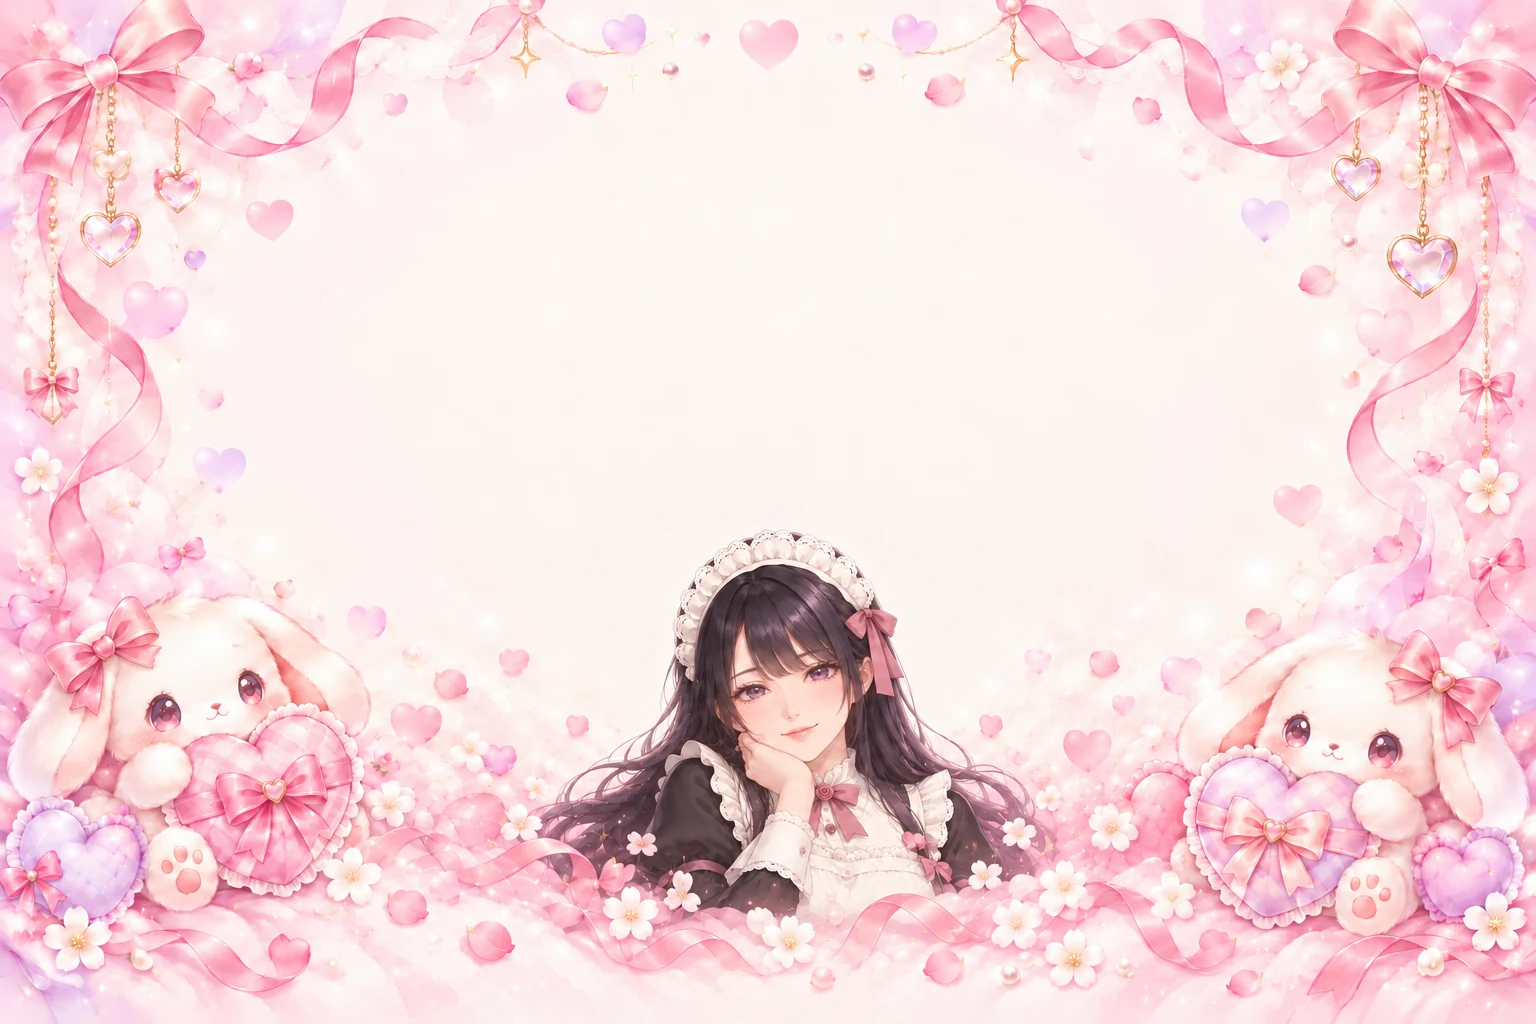
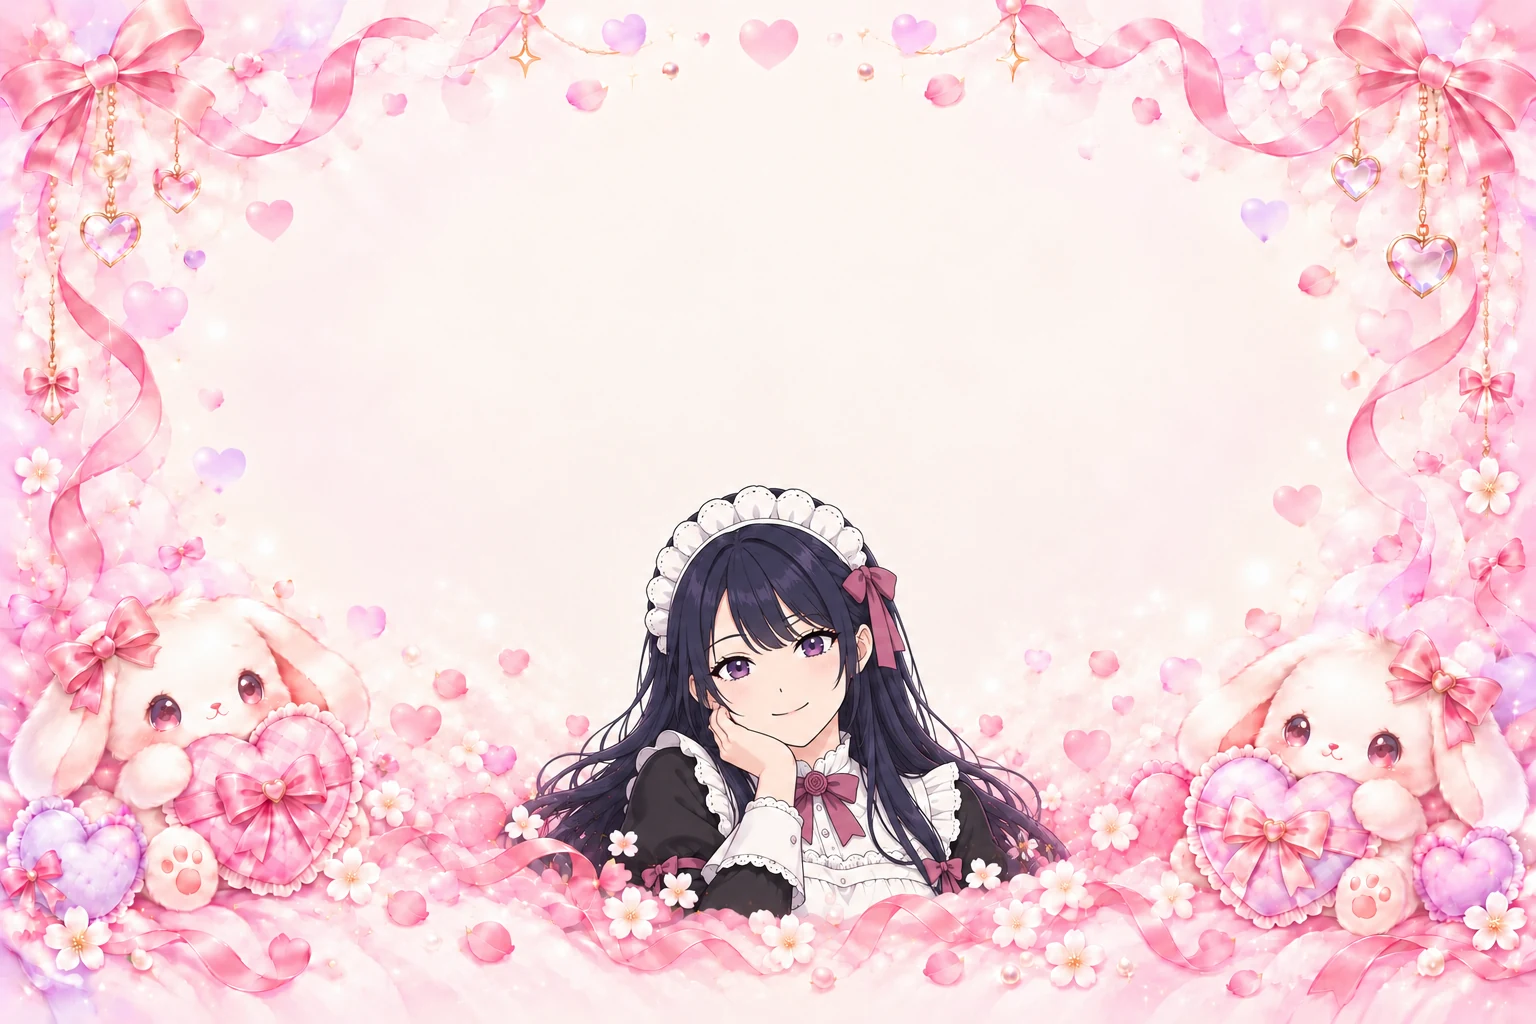
Refresh MOE anime maid artwork and heart motion
Update the background and five decorative portraits, keep text readable, and pause decorative motion when hidden or reduced.

diff --git a/src/app/moe.css b/src/app/moe.css
@@ -66,6 +66,10 @@ html[data-theme='moe'] {
     url('/themes/moe/background.webp') center / cover no-repeat,
     var(--bg0);
   background-attachment: fixed;
+  /* The 3:2 artwork has a small overscan margin. Percentages here use the fixed
+     background's positioning viewport, including mobile browser-chrome changes. */
+  background-size: auto, auto max(calc(100% + 60px), 66.667vw);
+  background-position: center, center calc(50% + 30px);
 }
 
 /* Two fixed, non-interactive planes sit behind the app. Empty generated content
@@ -81,12 +85,14 @@ html[data-theme='moe'] body::after {
   background-repeat: no-repeat;
 }
 html[data-theme='moe'] body::before {
+  --moe-drift-distance: -36px;
   background-image: var(--moe-heart), var(--moe-heart), var(--moe-heart), var(--moe-heart), var(--moe-heart), var(--moe-heart);
   background-size: 28px 26px, 19px 18px, 24px 22px, 18px 17px, 25px 23px, 20px 19px;
   background-position: 3% 12%, 97% 24%, 1% 47%, 99% 61%, 4% 84%, 96% 94%;
   animation: moe-heart-drift 9s ease-in-out infinite;
 }
 html[data-theme='moe'] body::after {
+  --moe-drift-distance: -30px;
   background-image: var(--moe-sparkle), var(--moe-heart), var(--moe-sparkle), var(--moe-sparkle), var(--moe-heart), var(--moe-sparkle);
   background-size: 15px 15px, 15px 14px, 18px 18px, 13px 13px, 17px 16px, 16px 16px;
   background-position: 95% 7%, 0% 31%, 98% 44%, 2% 69%, 100% 77%, 7% 96%;
@@ -233,6 +239,8 @@ html[data-theme='moe'] :is(.btn, .test-count__controls :where(button), .theme-op
 }
 html[data-theme='moe'] .btn:disabled::after { content: none; }
 html[data-theme='moe'] .page--test > .test-start-actions { background: transparent; }
+/* Empty-test labels keep an opaque reading surface over the illustrated face. */
+html[data-theme='moe'] .page--test > .test-start-actions button.btn:disabled { opacity: 1; }
 /* Portraits decorate only unopened editor slots; revealed indicators remain real tiles. */
 html[data-theme='moe'] .page--editor .wanpai > .is-back:nth-child(1) { --moe-maid-back: url('/themes/moe/maid-01-black-long.webp'); }
 html[data-theme='moe'] .page--editor .wanpai > .is-back:nth-child(2) { --moe-maid-back: url('/themes/moe/maid-02-chestnut-bob.webp'); }
@@ -286,7 +294,7 @@ html[data-theme='moe'] .page--records {
 
 @keyframes moe-heart-drift {
   0%, 100% { transform: translateY(0); }
-  50% { transform: translateY(-12px); }
+  50% { transform: translateY(var(--moe-drift-distance)); }
 }
 @keyframes moe-charm-sway {
   0%, 100% { transform: translateY(0) rotate(-7deg); }
@@ -308,4 +316,11 @@ html[data-theme='moe'] .page--records {
     animation: none !important;
     transition: none !important;
   }
+}
+
+/* Keep every MOE decorative timeline still while the document is hidden. */
+html[data-theme='moe'][data-motion-paused] *,
+html[data-theme='moe'][data-motion-paused] *::before,
+html[data-theme='moe'][data-motion-paused] *::after {
+  animation-play-state: paused !important;
 }

diff --git a/src/components/useDecorativeMotion.test.tsx b/src/components/useDecorativeMotion.test.tsx
@@ -1,0 +1,40 @@
+import { StrictMode, act } from 'react';
+import { createRoot, type Root } from 'react-dom/client';
+import { afterEach, beforeEach, expect, it, vi } from 'vitest';
+import { useDecorativeMotion } from './useDecorativeMotion';
+
+let host: HTMLDivElement;
+let root: Root;
+let visibility: DocumentVisibilityState;
+function Probe() { useDecorativeMotion(); return <button>操作</button>; }
+beforeEach(() => {
+  visibility = 'visible';
+  vi.stubGlobal('IS_REACT_ACT_ENVIRONMENT', true);
+  vi.spyOn(document, 'visibilityState', 'get').mockImplementation(() => visibility);
+  host = document.createElement('div'); document.body.append(host); root = createRoot(host);
+});
+afterEach(async () => { await act(async () => root.unmount()); host.remove(); vi.restoreAllMocks(); vi.unstubAllGlobals(); });
+const paused = () => document.documentElement.hasAttribute('data-motion-paused');
+async function change(next: DocumentVisibilityState) {
+  await act(async () => { visibility = next; document.dispatchEvent(new Event('visibilitychange')); });
+}
+it('pauses on hidden and resumes on visible without replacing a focused control', async () => {
+  await act(async () => root.render(<Probe />));
+  const button = host.querySelector('button')!; button.focus();
+  expect(paused()).toBe(false);
+  await change('hidden'); expect(paused()).toBe(true); expect(document.activeElement).toBe(button);
+  await change('visible'); expect(paused()).toBe(false); expect(document.activeElement).toBe(button);
+});
+it('starts paused in a hidden document and keeps listening through StrictMode remounts', async () => {
+  visibility = 'hidden';
+  await act(async () => root.render(<StrictMode><Probe /></StrictMode>));
+  expect(paused()).toBe(true);
+  await change('visible'); expect(paused()).toBe(false);
+  await change('hidden'); expect(paused()).toBe(true);
+});
+it('removes the listener and root marker after unmount', async () => {
+  await act(async () => root.render(<Probe />));
+  await change('hidden'); expect(paused()).toBe(true);
+  await act(async () => root.render(null)); expect(paused()).toBe(false);
+  await change('visible'); await change('hidden'); expect(paused()).toBe(false);
+});

diff --git a/src/app/App.tsx b/src/app/App.tsx
@@ -2,6 +2,7 @@ import { createHashRouter, Navigate, Route, RouterProvider, Routes, useLocation,
 import { AppProvider, useApp } from './store';
 import { RouteScroll } from '@/components/RouteScroll';
 import { BottomNav } from '@/components/BottomNav';
+import { useDecorativeMotion } from '@/components/useDecorativeMotion';
 import { LibraryPage } from '@/features/library/LibraryPage';
 import { EditorPage } from '@/features/editor/EditorPage';
 import { DetailPage } from '@/features/detail/DetailPage';
@@ -114,6 +115,7 @@ export function createAppRouter() {
 }
 
 export default function App({ router }: { router: RouterProviderProps['router'] }) {
+  useDecorativeMotion();
   return (
     <AppProvider>
       <div className="app-shell">

diff --git a/src/components/useDecorativeMotion.ts b/src/components/useDecorativeMotion.ts
@@ -1,0 +1,15 @@
+import { useEffect } from 'react';
+
+/** Pause decorative CSS timelines while the page is not being shown. */
+export function useDecorativeMotion() {
+  useEffect(() => {
+    const root = document.documentElement;
+    const sync = () => root.toggleAttribute('data-motion-paused', document.visibilityState !== 'visible');
+    sync();
+    document.addEventListener('visibilitychange', sync);
+    return () => {
+      document.removeEventListener('visibilitychange', sync);
+      root.removeAttribute('data-motion-paused');
+    };
+  }, []);
+}

diff --git a/public/sw.js b/public/sw.js
@@ -1,4 +1,4 @@
-const CACHE = 'mahjong-study-v48';
+const CACHE = 'mahjong-study-v49';
 
 self.addEventListener('install', (event) => {
   event.waitUntil(

diff --git a/README.md b/README.md
@@ -122,4 +122,4 @@ npm run build
 
 ## テーマ
 
-設定からノーマル・クール・キュート・DOPA・MOEを選べます。クールとキュートはそれぞれ専用の生成画像を全体と学習帳カードの背景に使います。DOPAは虹色の枠と光がゆっくり流れるテーマです。端末の「動きを減らす」設定では虹色を静止表示にします。MOEはハートとリボンの生成背景を使い、装飾だけがゆっくり動きます。動きを減らす設定では静止します。テーマはこのブラウザだけに保存され、問題や学習履歴は変わりません。
+設定からノーマル・クール・キュート・DOPA・MOEを選べます。クールとキュートはそれぞれ専用の生成画像を全体と学習帳カードの背景に使います。DOPAは虹色の枠と光がゆっくり流れるテーマです。端末の「動きを減らす」設定では虹色を静止表示にします。MOEはアニメ調のメイドとハート・リボンの生成背景を使い、未公開のドラ裏5枚にそれぞれ異なる顔を表示します。背景のハートは2層だけがゆっくり上下し、文字・牌・操作部分は動きません。動きを減らす設定では静止し、ページが非表示の間は装飾アニメーションを一時停止します。テーマはこのブラウザだけに保存され、問題や学習履歴は変わりません。
